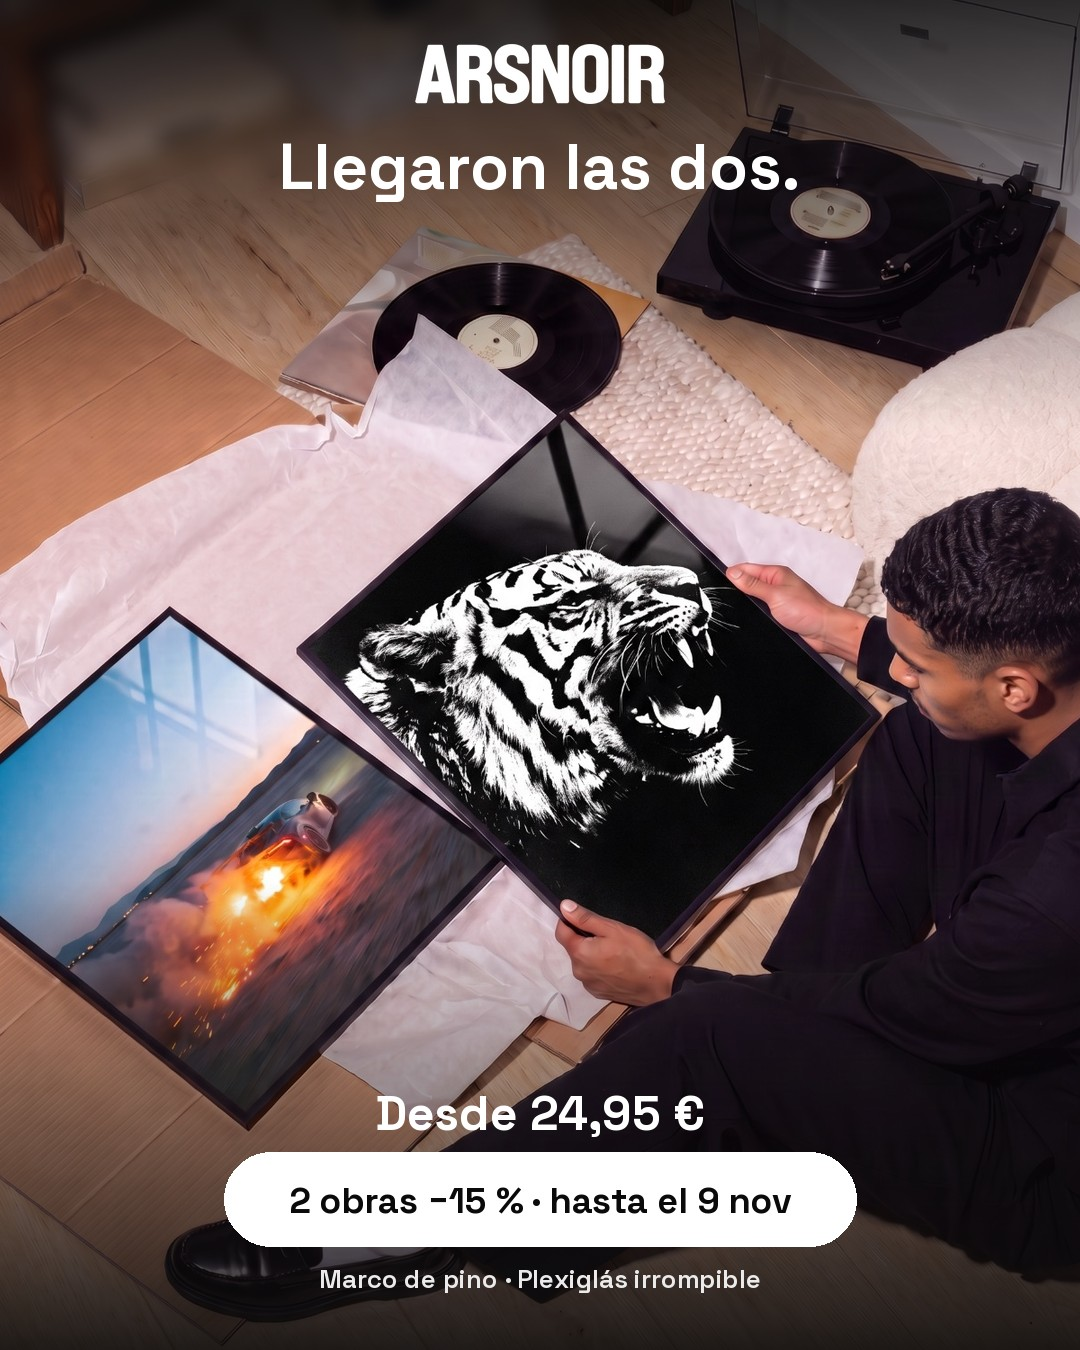
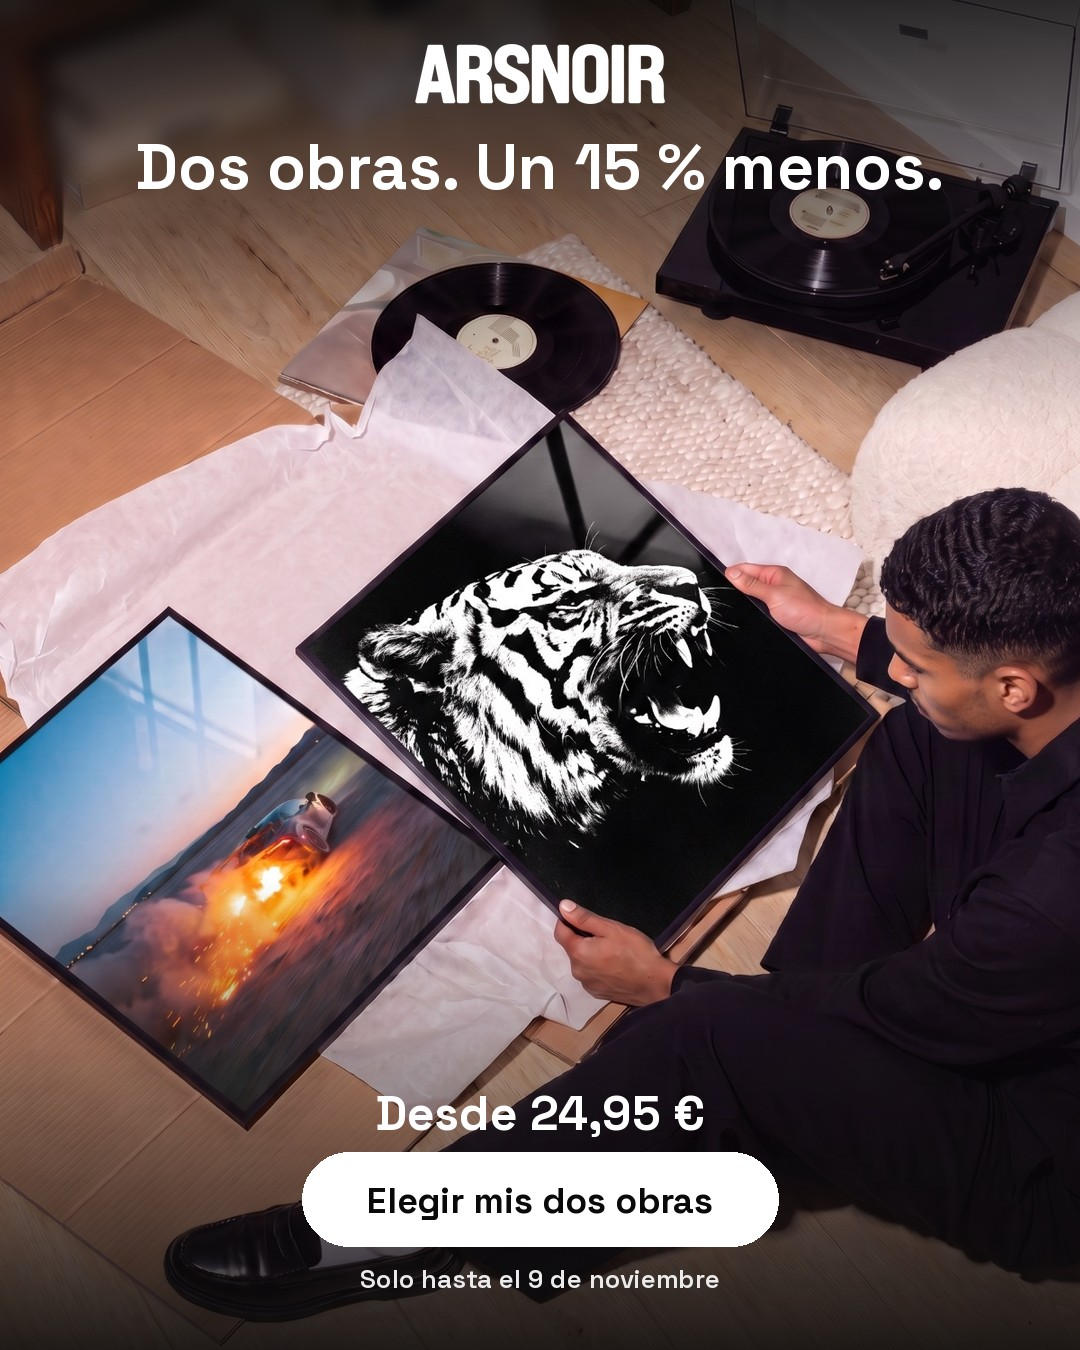
Meta Ads: c20 9:16 fills the screen (no blurred bands); copy «Dos obras. Un 15 % menos.» with «Elegir mis dos obras»
Claude-Session: https://claude.ai/code/session_0194VZ5ga5soZRAmzpfCecMg

diff --git a/data/meta-ads-creativos.py b/data/meta-ads-creativos.py
@@ -688,21 +688,18 @@ brand_button_ad(
 )
 
 
-def unboxing_ad(cid, photo, headline, price, button, note):
+def unboxing_ad(cid, photo, headline, price, button, note, x9=0.5):
     """Foto cenital de unboxing: logotipo y titular arriba sobre degradado oscuro; precio, botón y nota abajo.
-    En 9:16 la foto 4:5 va entera en el centro sobre un fondo hecho con la misma foto ampliada y desenfocada."""
+    En 9:16 la foto llena la pantalla, recortada en horizontal en `x9` (0–1)."""
     src = Image.open(M / photo).convert("RGB")
     logo_src = Image.open(M / "ads/src/logo-arsnoir-blanco.png")
     for fmt, (W, H) in {"4x5": (1080, 1350), "9x16": (1080, 1920)}.items():
-        if fmt == "4x5":
-            im = cover(M / photo, W, H, 0.5).convert("RGBA")
-            top_h, bot_h = 430, 470
-        else:
-            im = cover(M / photo, W, H, 0.5).filter(ImageFilter.GaussianBlur(28)).convert("RGBA")
-            im.alpha_composite(Image.new("RGBA", (W, H), (0, 0, 0, 90)))
-            ph = round(src.height * W / src.width)
-            im.paste(src.resize((W, ph), Image.LANCZOS), (0, (H - ph) // 2))
-            top_h, bot_h = 640, 760
+        k = max(W / src.width, H / src.height)
+        big = src.resize((round(src.width * k), round(src.height * k)), Image.LANCZOS)
+        x0 = round((big.width - W) * (0.5 if fmt == "4x5" else x9))
+        y0 = (big.height - H) // 2
+        im = big.crop((x0, y0, x0 + W, y0 + H)).convert("RGBA")
+        top_h, bot_h = (430, 470) if fmt == "4x5" else (700, 800)
         im.alpha_composite(gradient(W, top_h, 215, 0), (0, 0))
         im.alpha_composite(gradient(W, bot_h, 0, 230), (0, H - bot_h))
         d = ImageDraw.Draw(im)
@@ -727,8 +724,8 @@ def unboxing_ad(cid, photo, headline, price, button, note):
 
 unboxing_ad(
     "c20-unboxing-dos-obras", "ads/src/unboxing-tigre-petardeo.jpg",
-    "Llegaron las dos.", "Desde 24,95 €", "2 obras −15 % · hasta el 9 nov",
-    "Marco de pino · Plexiglás irrompible",
+    "Dos obras. Un 15 % menos.", "Desde 24,95 €", "Elegir mis dos obras",
+    "Solo hasta el 9 de noviembre", x9=0.55,
 )
 
 if __name__ == "__main__":
